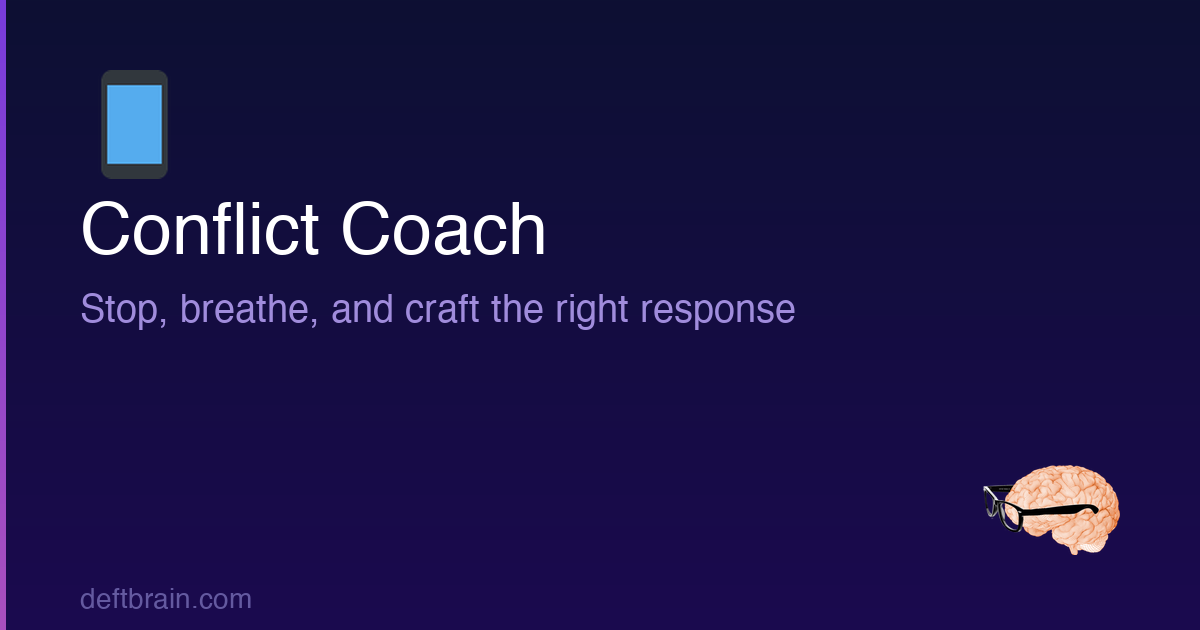
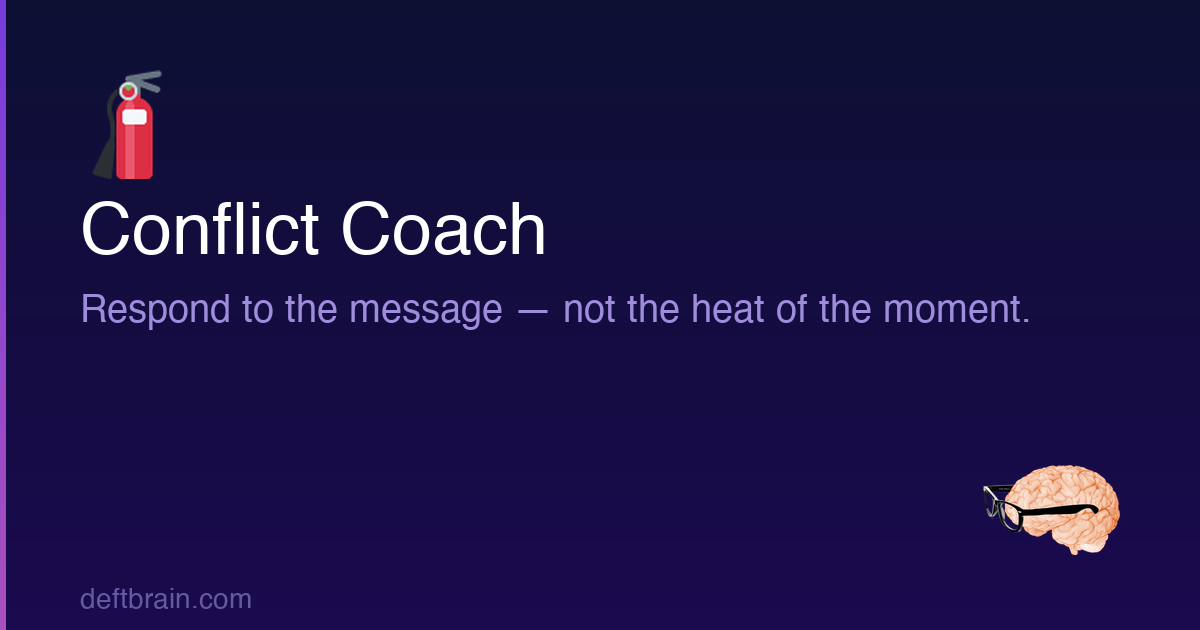
design(conflict-coach): 🧯
A phone said the tool was about your phone. It is about what you send back, and
several other tools in the catalog are message-shaped too. An extinguisher says
defuse — and reads as a capability rather than a warning, which matters for a
tool that just had its alarm-shaped copy removed.

All six places: the catalog entry and the five `tool?.icon ?? '📱'` fallbacks,
which take over the moment `tool` is undefined and which nothing checks. OG
card regenerated.

Changed region(s): [[0.0617, 0.4524, 0.8633, 0.5127], [0.0617, 0.0905, 0.1542, 0.3016]]

diff --git a/src/tools/ConflictCoach.js b/src/tools/ConflictCoach.js
@@ -319,7 +319,7 @@ const ConflictCoach = ({ tool }) => {
             <div>
               {/* PF-30 — the wrapper already prints the name as the page <h1>. */}
               <p className={`text-base ${c.textSecondary}`}>
-                <span className="me-2 text-lg">{tool?.icon ?? '📱'}</span>{tool?.tagline ?? t('cc_tagline')}
+                <span className="me-2 text-lg">{tool?.icon ?? '🧯'}</span>{tool?.tagline ?? t('cc_tagline')}
               </p>
               <button onClick={loadExample} disabled={loading} style={{ backgroundColor: (tool?.headerColor ?? '#888888') + '80' }} className="mt-2 px-4 py-2 rounded-full text-sm font-semibold border border-black/25 text-zinc-900 shadow-sm hover:brightness-105 hover:shadow transition disabled:opacity-40 whitespace-nowrap">✨ {t('try_example')}</button>
             </div>
@@ -437,8 +437,8 @@ const ConflictCoach = ({ tool }) => {
             <button title={t('cmd_enter')} onClick={handleAnalyze} disabled={loading}
               className={`relative flex-1 ${c.btnPrimary} font-medium py-3 rounded-lg flex items-center justify-center gap-2 min-h-[48px]`}>
               {loading
-                ? <><span className="animate-spin inline-block">{tool?.icon ?? '📱'}</span> {t('cc_analyzing')}</>
-                : <><span>{tool?.icon ?? '📱'}</span> {t('cc_analyze')}</>}
+                ? <><span className="animate-spin inline-block">{tool?.icon ?? '🧯'}</span> {t('cc_analyzing')}</>
+                : <><span>{tool?.icon ?? '🧯'}</span> {t('cc_analyze')}</>}
             {!loading && (
               <kbd aria-hidden="true"
                 className="hidden sm:flex items-center absolute end-3 top-1/2 -translate-y-1/2 px-1.5 py-0.5 rounded border border-white/30 bg-white/15 text-[10px] font-bold tracking-wide">
@@ -521,7 +521,7 @@ const ConflictCoach = ({ tool }) => {
                             </div>
                             <button onClick={handleAdjustTone} disabled={toneLoading}
                               className={`${c.btnPrimary} px-4 py-2 rounded text-sm w-full disabled:opacity-40`}>
-                              {toneLoading ? <span className="animate-spin inline-block">{tool?.icon ?? '📱'}</span> : t('cc_regenerate', { level: toneLevel })}
+                              {toneLoading ? <span className="animate-spin inline-block">{tool?.icon ?? '🧯'}</span> : t('cc_regenerate', { level: toneLevel })}
                             </button>
                             {adjustedResponse && (
                               <div className="mt-2">
@@ -568,7 +568,7 @@ const ConflictCoach = ({ tool }) => {
                 onKeyDown={e => { if (e.key === 'Enter') handleFollowup(); }} />
               <button onClick={handleFollowup} disabled={followupLoading || !followupQuestion.trim()}
                 className={`${c.btnPrimary} px-4 py-2 rounded-lg disabled:opacity-40`}>
-                {followupLoading ? <span className="animate-spin inline-block">{tool?.icon ?? '📱'}</span> : '➤'}
+                {followupLoading ? <span className="animate-spin inline-block">{tool?.icon ?? '🧯'}</span> : '➤'}
               </button>
             </div>
           </div>

diff --git a/src/data/tools.js b/src/data/tools.js
@@ -4321,7 +4321,7 @@ tagline: "Personal Energy Planner — understand your energy, plan around it",
   title: "Conflict Coach",
   tagline: "Respond to the message — not the heat of the moment.",
   tags: ['text', 'argument', 'fight', 'respond', 'message', 'conflict', 'communication', 'de-escalate', 'anger', 'manipulation', 'gaslighting', 'passive aggressive', 'relationship', 'boundaries', 'texting'],
-  icon: "📱",
+  icon: "🧯",
   categories: ['Humans', 'Discourse'],
   headerColor: "#e0b8b8",
   description: "A tense message can make the first reply feel urgent. Paste what you received, tell us the relationship and what you want the response to accomplish, and Conflict Coach lays out several ways to answer so you can choose deliberately before you send anything.",
